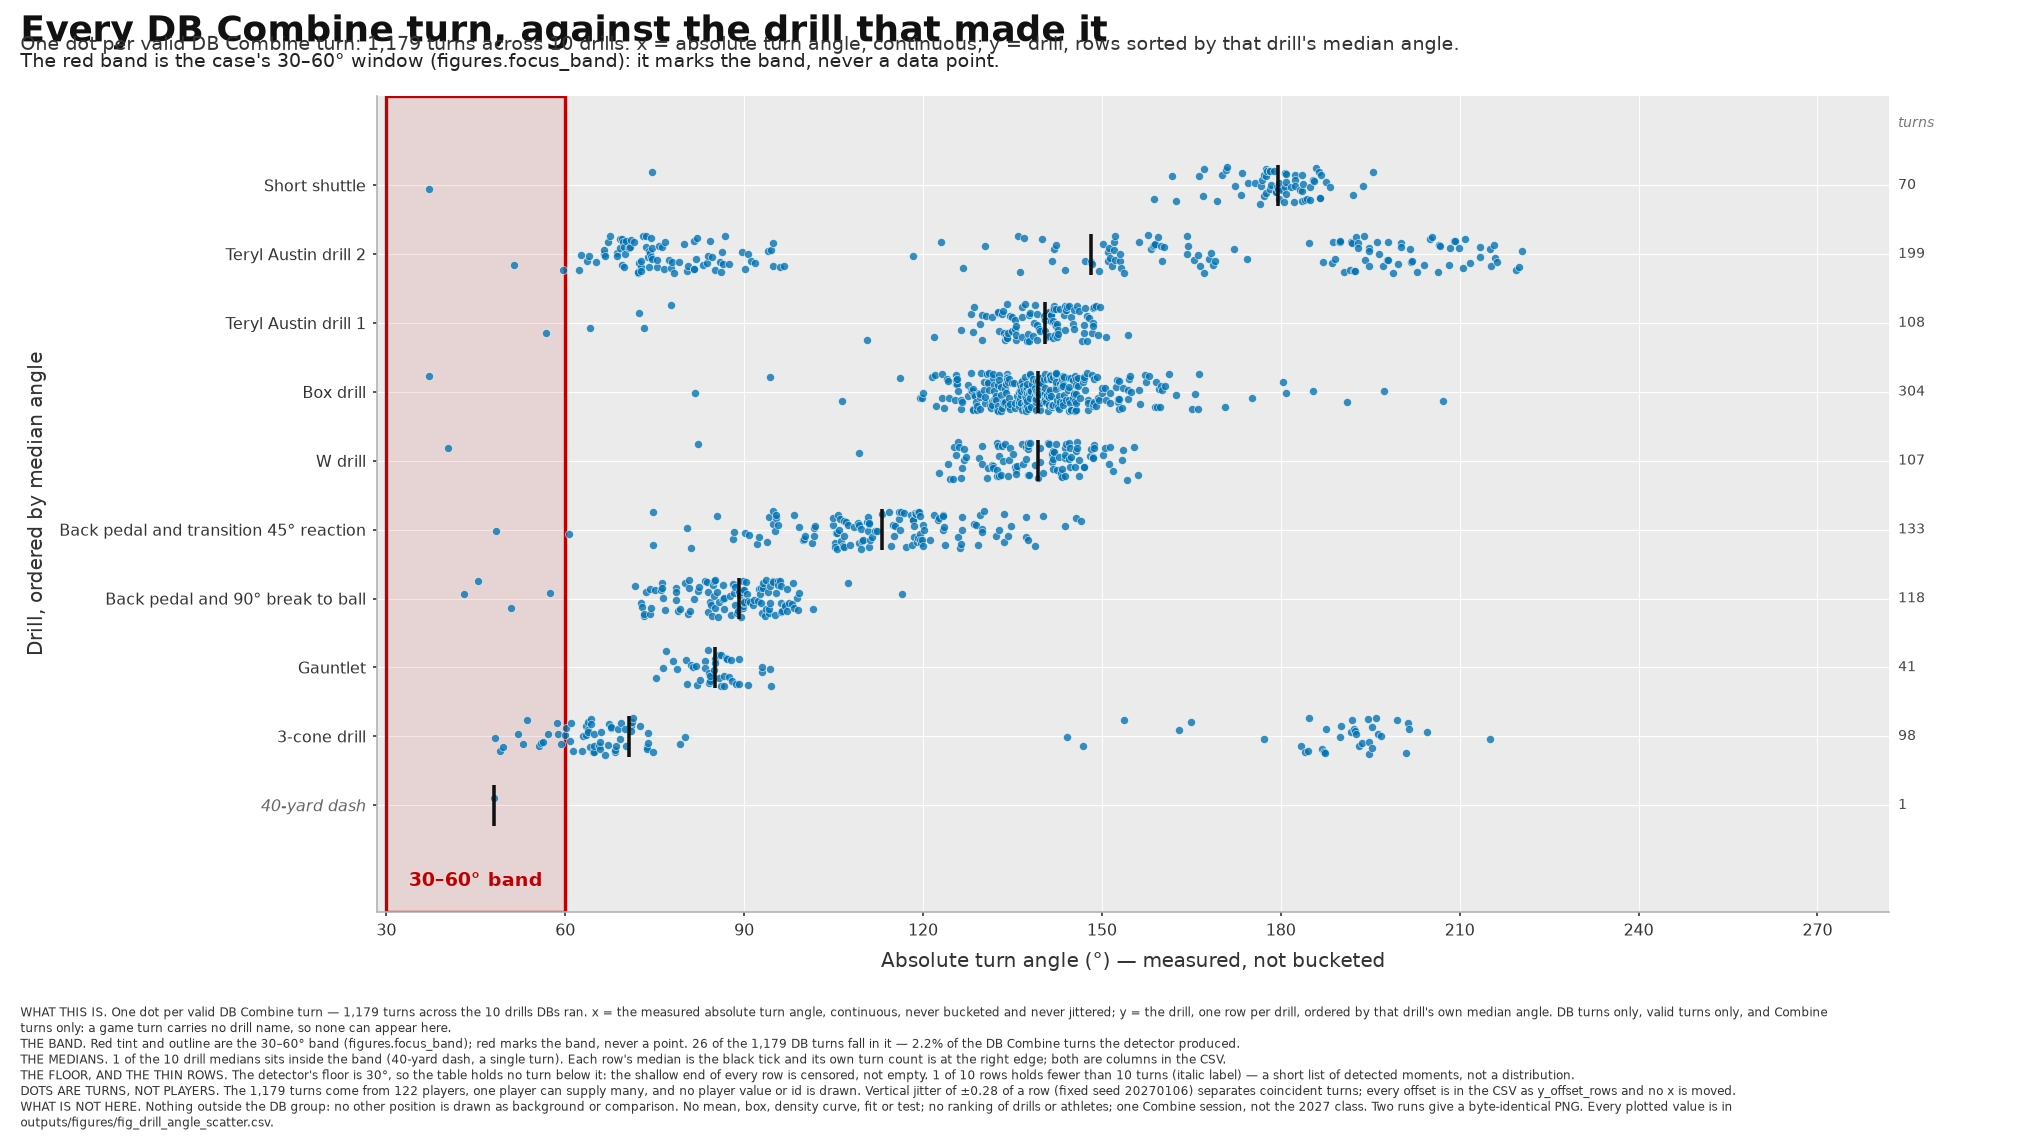
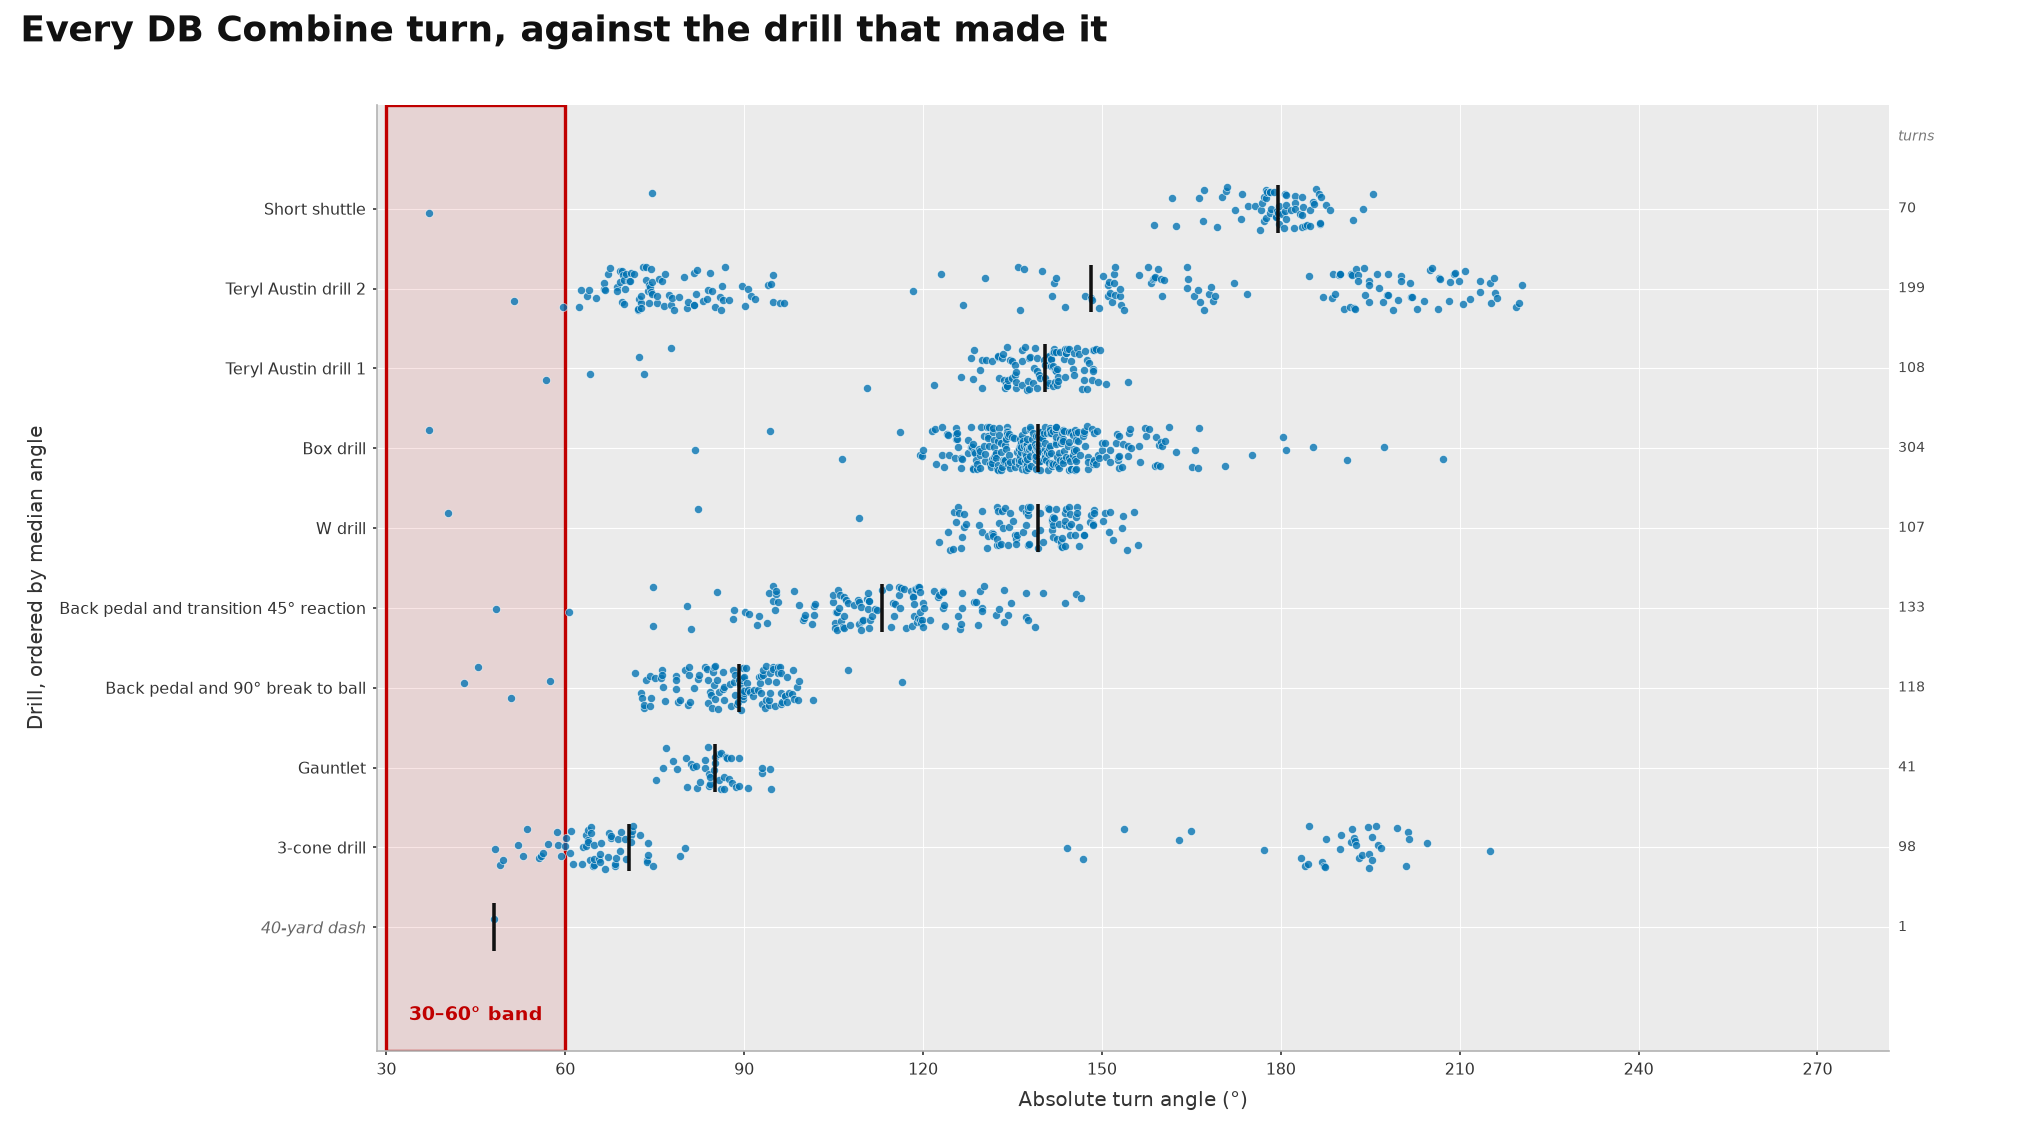
Figure 18: heading and data only — subtitle, caption and x-label tail gone (D183)
Conor, 2026-11-10 22:56: "Remove the text under the heading, all the text at
the bottom and 'measured not bucketed'".

- drop the two subtitle lines under the heading;
- drop the caption block (_wrap_text/_da_caption construction and its
  fig.text call); _da_caption stays uncalled, every caveat already lives in
  the manifest caveats and the CSV provenance columns;
- x label is now exactly "Absolute turn angle (deg)" without the tail;
- axes rect [0.185, 0.200, 0.741, 0.716] -> [0.185, 0.078, 0.741, 0.830] so
  the freed top/bottom space goes to the plot, not to white bands.

Drawing untouched: band tint, median ticks, right-edge counts, jitter and dot
encoding are the same, and fig_drill_angle_scatter.csv is byte-identical.
Only this PNG changes; the other 17 are byte-identical.

diff --git a/tests/test_drill_angle_figure.py b/tests/test_drill_angle_figure.py
@@ -292,6 +292,85 @@ def test_figure_draws_every_dot(built, cfg):
     plt.close(fig)
 
 
+def _drawn_text(fig) -> str:
+    """Every string the figure draws: figure text, axes text and axis labels."""
+    parts = [t.get_text() for t in fig.texts]
+    for ax in fig.axes:
+        parts.extend(t.get_text() for t in ax.texts)
+        parts.extend(t.get_text() for t in ax.get_xticklabels())
+        parts.extend(t.get_text() for t in ax.get_yticklabels())
+        parts.extend([ax.get_title(), ax.get_xlabel(), ax.get_ylabel()])
+    return "\n".join(parts)
+
+
+def test_the_heading_is_the_only_text_block(built, cfg):
+    """D183: a heading and the data, nothing else — no subtitle, no caption."""
+    table, context = built
+    fig = figures.plot_drill_angle(table, context, cfg)
+    fig.canvas.draw()
+    assert [t.get_text() for t in fig.texts] == [
+        "Every DB Combine turn, against the drill that made it"
+    ], "figure 18 must draw exactly one figure-level text: its heading"
+    drawn = _drawn_text(fig)
+    assert "One dot per valid DB Combine turn" not in drawn, (
+        "the subtitle is still drawn under the heading")
+    assert "red band is the case" not in drawn, (
+        "the band subtitle is still drawn under the heading")
+    assert "bucketed" not in drawn, (
+        "'measured, not bucketed' is still drawn somewhere on the figure")
+    assert "WHAT THIS IS" not in drawn and "THE BAND." not in drawn, (
+        "the caption block is still drawn at the foot of the figure")
+    plt.close(fig)
+
+
+def test_x_label_is_the_plain_quantity(built, cfg):
+    table, context = built
+    fig = figures.plot_drill_angle(table, context, cfg)
+    fig.canvas.draw()
+    ax = fig.axes[0]
+    assert ax.get_xlabel() == "Absolute turn angle (\u00b0)", (
+        "the x label must name the quantity and stop there")
+    assert ax.get_ylabel() == "Drill, ordered by median angle"
+    plt.close(fig)
+
+
+def test_axes_fill_the_canvas_under_the_heading(built, cfg):
+    """Removing the text blocks must give the plot the space, not white bands."""
+    table, context = built
+    fig = figures.plot_drill_angle(table, context, cfg)
+    fig.canvas.draw()
+    renderer = fig.canvas.get_renderer()
+    width, height = fig.canvas.get_width_height()
+    ax = fig.axes[0]
+    rect = ax.get_window_extent(renderer)
+    heading = fig.texts[0].get_window_extent(renderer)
+
+    # heading above the axes, with a real but not cavernous gap
+    gap_in = (heading.y0 - rect.y1) / fig.dpi
+    assert 0.15 <= gap_in <= 0.60, f"heading-to-axes gap is {gap_in:.2f} in"
+    assert rect.y1 / height <= 0.93, "the axes do not reach up under the heading"
+    assert (rect.y1 - rect.y0) / height >= 0.75, (
+        "the plot was shrunk instead of being given the freed space")
+
+    # the x label sits near the bottom with a normal margin under it
+    label_bottom_in = ax.xaxis.label.get_window_extent(renderer).y0 / fig.dpi
+    assert 0.08 <= label_bottom_in <= 0.45, (
+        f"x label bottom margin is {label_bottom_in:.2f} in")
+
+    # nothing drawn hangs off the canvas
+    for artist in fig.findobj(matplotlib.text.Text):
+        if not artist.get_visible() or not artist.get_text().strip():
+            continue
+        box = artist.get_window_extent(renderer)
+        if box.width == 0 and box.height == 0:
+            continue
+        assert box.x0 >= 0 and box.y0 >= 0, (
+            f"{artist.get_text()[:30]!r} runs off the left/bottom edge")
+        assert box.x1 <= width and box.y1 <= height, (
+            f"{artist.get_text()[:30]!r} runs off the right/top edge")
+    plt.close(fig)
+
+
 # ------------------------------------------------------- committed artefact
 REPO_CSV = ROOT / "outputs" / "figures" / f"{figures.FIGURE_KEY_DRILL_ANGLE}.csv"
 REPO_TURNS = ROOT / "outputs" / "turns" / "turns.parquet"

diff --git a/src/bdb27/figures.py b/src/bdb27/figures.py
@@ -10334,7 +10334,13 @@ def _da_pct(value: float) -> str:
 
 
 def _da_caption(context: dict, cfg: common.Config) -> list[str]:
-    """Caption lines; every number comes from the rendered table."""
+    """Caption lines; every number comes from the rendered table.
+
+    Kept for the manifest/CSV wording, which still owns every caveat (D183,
+    2026-11-10): the figure draws no caption at all — Conor asked for a
+    heading and the data, nothing else — so this function is currently
+    uncalled. Its numbers still have to be true if it is ever drawn again.
+    """
     focus = context["focus"]
     n = context["n_turns"]
     position = context["position_group"]
@@ -10423,10 +10429,11 @@ def plot_drill_angle(table: pd.DataFrame, context: dict,
 
     fig = plt.figure(figsize=(float(cfg.get(f"{block}.width_in")),
                               float(cfg.get(f"{block}.height_in"))))
-    # The bottom margin is sized for the caption block: with the DB-only
-    # population the plot is ten rows tall, so the caption cannot sit in an
-    # eighth-of-an-inch strip any more.
-    ax = fig.add_axes([0.185, 0.200, 0.741, 0.716])
+    # No subtitle and no caption are drawn (D183, 2026-11-10): the heading sits
+    # at the top and the axes fill everything below it, with only the x-axis
+    # tick labels and label for padding underneath. The left margin still holds
+    # the long drill labels; the right margin holds the row turn counts.
+    ax = fig.add_axes([0.185, 0.078, 0.741, 0.830])
     ax.set_facecolor("#EBEBEB")
     for spine in ("top", "right"):
         ax.spines[spine].set_visible(False)
@@ -10478,29 +10485,19 @@ def plot_drill_angle(table: pd.DataFrame, context: dict,
     ax.set_xlim(*x_lim)
     ax.set_ylim(y_lo, y_hi)
     ax.set_xticks(x_ticks)
-    ax.set_xlabel("Absolute turn angle (°) — measured, not bucketed",
+    ax.set_xlabel("Absolute turn angle (°)",
                   fontsize=9.6, color="#333333", labelpad=6)
     ax.set_ylabel("Drill, ordered by median angle", fontsize=9.6,
                   color="#333333", labelpad=6)
 
+    # The heading is the figure's only text block: no subtitle under it and no
+    # caption at the foot (D183, 2026-11-10). Every caveat that used to live in
+    # the caption stays in the CSV and the manifest entry, which are the
+    # provenance record.
     fig.text(0.010, 0.988,
              "Every DB Combine turn, against the drill that made it",
              fontsize=17.5, fontweight="bold", ha="left", va="top",
              color="#111111")
-    fig.text(0.010, 0.969,
-             f"One dot per valid DB Combine turn: {context['n_turns']:,} turns "
-             f"across {n_rows} drills. x = absolute turn angle, continuous; "
-             f"y = drill, rows sorted by that drill's median angle.",
-             fontsize=9.2, ha="left", va="top", color="#333333")
-    fig.text(0.010, 0.954,
-             f"The red band is the case's {focus['label']} window "
-             f"(figures.focus_band): it marks the band, never a data point.",
-             fontsize=9.2, ha="left", va="top", color="#222222")
-
-    caption = "\n".join(_wrap_text(line, 300)
-                        for line in _da_caption(context, cfg))
-    fig.text(0.010, 0.008, caption, ha="left", va="bottom", fontsize=5.9,
-             color="#333333", linespacing=1.28)
     return fig
 
 

diff --git a/tests/test_figures_stage.py b/tests/test_figures_stage.py
@@ -4444,6 +4444,64 @@ def test_drill_angle_two_renders_are_byte_identical(rendered):
     assert before == after, "two renders of figure 18 differ"
 
 
+def test_drill_angle_drawn_text_is_one_heading_and_the_data(rendered):
+    """D183 (2026-11-10): no subtitle, no caption, plain x label."""
+    import matplotlib.pyplot as plt
+
+    from bdb27 import common, figures
+
+    cfg = common.load_config(rendered["cfg"])
+    turns = pd.read_parquet(
+        rendered["tmp"] / "outputs" / "turns" / "turns.parquet")
+    table, context = figures.drill_angle_table(turns, cfg)
+    fig = figures.plot_drill_angle(table, context, cfg)
+    fig.canvas.draw()
+    try:
+        assert len(fig.texts) == 1, "figure 18 must draw only its heading"
+        assert fig.texts[0].get_text() == (
+            "Every DB Combine turn, against the drill that made it")
+        drawn = [t.get_text() for t in fig.texts]
+        drawn += [t.get_text() for ax in fig.axes for t in ax.texts]
+        drawn += [ax.get_xlabel() for ax in fig.axes]
+        drawn += [ax.get_ylabel() for ax in fig.axes]
+        drawn += [t.get_text() for ax in fig.axes
+                  for t in ax.get_xticklabels() + ax.get_yticklabels()]
+        joined = "\n".join(drawn)
+        for gone in ("One dot per valid", "red band is the case",
+                     "bucketed", "WHAT THIS IS", "THE BAND.",
+                     "THE FLOOR", "DOTS ARE TURNS"):
+            assert gone not in joined, f"{gone!r} is still drawn on figure 18"
+        assert fig.axes[0].get_xlabel() == "Absolute turn angle (\u00b0)"
+    finally:
+        plt.close(fig)
+
+
+def test_drill_angle_manifest_text_is_unchanged_by_the_drawing(rendered):
+    """The caveats live in the CSV/manifest and must survive the text removal."""
+    import matplotlib.pyplot as plt
+
+    from bdb27 import common, figures
+
+    cfg = common.load_config(rendered["cfg"])
+    turns = pd.read_parquet(
+        rendered["tmp"] / "outputs" / "turns" / "turns.parquet")
+    table, context = figures.drill_angle_table(turns, cfg)
+    fig = figures.plot_drill_angle(table, context, cfg)
+    plt.close(fig)
+    # the caption's sentences are no longer drawn, but every caveat must still
+    # exist in full in the manifest and the CSV's provenance columns
+    fig_payload = figures.drill_angle_manifest_payload(table, context, cfg)
+    man = json.loads(rendered["manifest"].read_text())["figures"][DA_KEY]
+    assert man["caveats"] == fig_payload["caveats"], (
+        "the drawn-text change must not touch the manifest caveats")
+    joined = " ".join(man["caveats"])
+    assert "floor" in joined and "not a distribution" in joined
+    assert "jitter" in joined
+    csv_df = pd.read_csv(rendered["da_csv"])
+    assert {"stamp", "config_sha", "y_offset_rows"} <= set(csv_df.columns)
+    assert csv_df["stamp"].eq(STAMP).all()
+
+
 def test_drill_angle_manifest_carries_claim_and_caveats(rendered):
     man = json.loads(rendered["manifest"].read_text())
     fig = man["figures"][DA_KEY]

diff --git a/notes/decisions.md b/notes/decisions.md
@@ -6984,3 +6984,56 @@ new assertions that the table is one position, that the non-DB drills are
 excluded, that no grey mark is drawn, that a single series carries no legend,
 and that the committed CSV holds 1,179 rows, 10 drills, DB only, 26 in band.
 `tests/test_figures_stage.py` figure-18 tests assert the same counts end to end.
+
+### D183 (extended) — figure 18 carries a heading and the data, nothing else · 2026-11-10 23:08
+
+**The instruction (Conor, 2026-11-10 22:56, verbatim, sent against the rendered
+image).** "Remove the text under the heading, all the text at the bottom and
+'measured not bucketed'".
+
+**What was removed.** Three text blocks and nothing else. (1) The two subtitle
+lines under the heading — the "One dot per valid DB Combine turn …" line and
+the "The red band is the case's 30–60° window (figures.focus_band) …" line.
+(2) The whole caption block at the foot of the figure: the `_wrap_text`/`_da_caption`
+construction and its `fig.text(0.010, 0.008, …)` call. (3) The x-axis label's
+tail, "— measured, not bucketed"; it now reads exactly "Absolute turn angle (°)".
+
+**What the removal is not.** No number, caveat or claim was dropped from the
+artefact: `_da_caption()` still builds the same prose with the same
+render-time numbers and is currently uncalled, while the manifest's `caveats`
+and `claim` and the CSV's provenance columns carry every caveat the caption
+used to print. `fig_drill_angle_scatter.csv` is byte-identical before and after
+this change (SHA-256 d6004a90…cd8ab), which is the proof that this is a drawing
+change only. `_da_caption` is left in place, uncalled, rather than deleted, so
+the wording is available if a caption is ever wanted again; the docstring says
+so.
+
+**Layout.** With no subtitle and no caption the canvas had dead space top and
+bottom, so the axes rectangle was recomputed rather than the plot shrunk:
+`[0.185, 0.200, 0.741, 0.716]` → `[0.185, 0.078, 0.741, 0.830]`. The heading
+keeps its anchor at `y = 0.988`; measured on the rendered figure the gap from
+the heading's bottom to the axes' top is 0.36 in, the axes fill 83% of the
+canvas height, and the x-axis label sits 0.19 in above the bottom edge with no
+text within 2 px of any canvas edge. Canvas size is unchanged (2040 × 1140 px,
+150 dpi).
+
+**Draw unchanged.** Band tint and outline from `figures.focus_band`, the
+in-band label, the per-row median ticks, the right-edge turn counts, the
+seeded ±0.275-row vertical-only jitter and the one-dot-per-turn encoding are
+all untouched, and the CSV that records them is byte-identical.
+
+**Proof nothing else moved.** `outputs/figures/fig_drill_angle_scatter.png` is
+the only PNG that changes (308,053 → 177,149 bytes); all 17 other figure PNGs
+are byte-identical to `2ea57c8` (SHA-256), every other figure CSV is unchanged
+(no `config_sha` move either — `config.yaml` is untouched), and the manifest
+changes only in its top-level `generated_utc`: the `fig_drill_angle_scatter`
+entry itself, caveats included, is unchanged. Two consecutive renders of figure
+18 are byte-identical.
+
+**Tests.** `tests/test_drill_angle_figure.py` grows three assertions from 18 to
+21: the heading is the only figure-level text block; the x label is exactly
+"Absolute turn angle (°)"; the axes fill the canvas under the heading with a
+normal margin and nothing is clipped or drawn off-canvas. The stage-level
+figure-18 tests gain two: the drawn text of a real render carries one heading,
+no subtitle, no caption and no "bucketed", and the manifest caveats plus the
+CSV provenance columns are unchanged by the drawing edit.

diff --git a/notes/phase6-figures.md b/notes/phase6-figures.md
@@ -69,10 +69,13 @@ The ten DB drills, median angle ascending: 40-yard dash 48.1° (1 turn), 3-cone
 reaction 113.1°, W drill 139.3°, box drill 139.3°, Teryl Austin 1 140.4°, Teryl
 Austin 2 148.2°, short shuttle 179.6°. Turns inside 30–60°: **26 of 1,179
 (2.2%)**. The 40-yard dash median sits in the band because its row is a single
-turn; the caption says so. One row holds fewer than ten turns and is labelled
-italic.
+turn; the manifest entry says so. One row holds fewer than ten turns and is
+labelled italic.
 
-Caption caveats: Combine turns only (a game turn carries no drill name); valid
+The figure draws a heading and the data and no other text (Conor, 2026-11-10):
+no subtitle under the heading, no caption at the foot, and the x label reads
+"Absolute turn angle (°)". The caveats live in the CSV and the manifest entry:
+Combine turns only (a game turn carries no drill name); valid
 turns only; the 30° detector floor censors the shallow end of every row, so no
 turn below 30° exists in the table; dots are individual turns, not players; the
 ±0.275-row vertical jitter is seeded and written per row as `y_offset_rows`,
